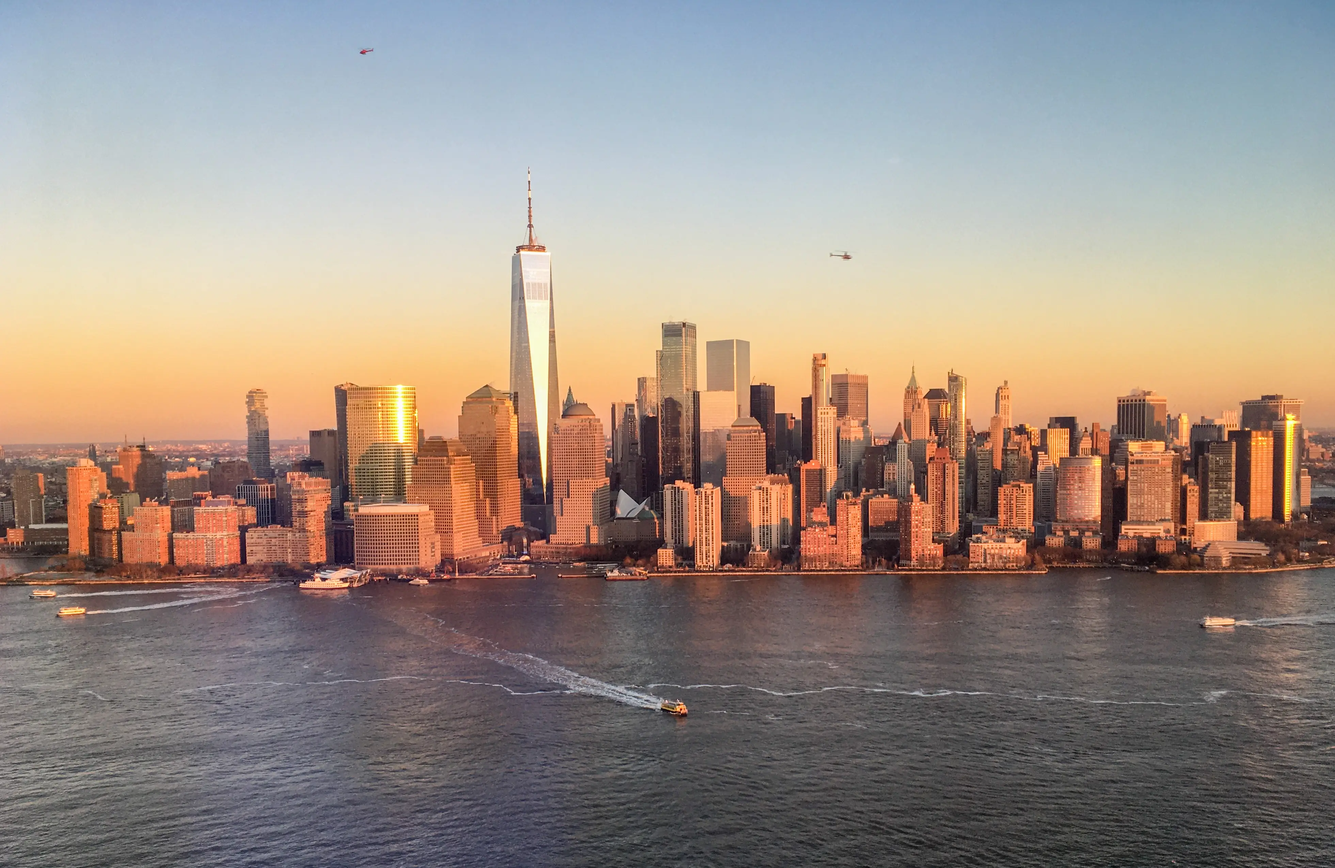
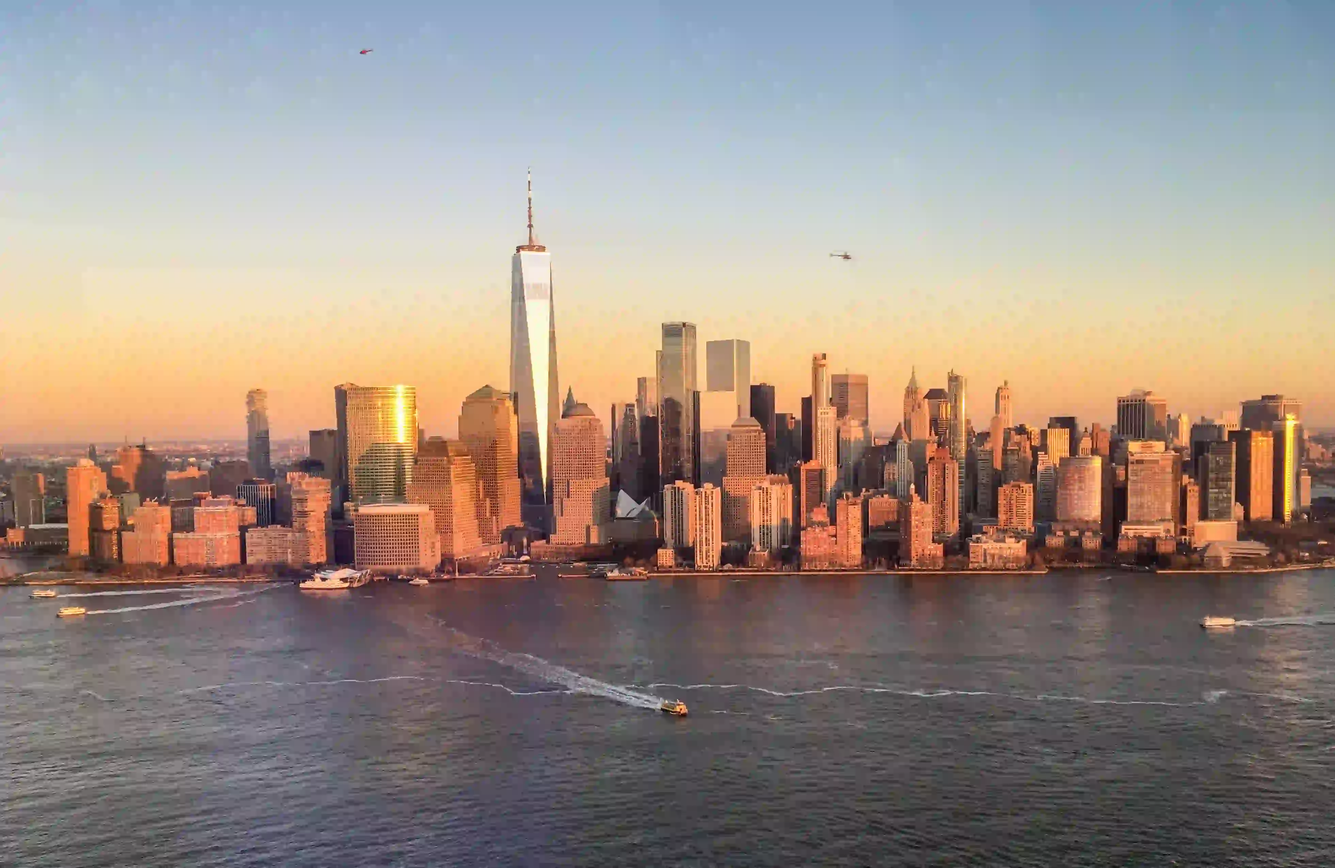
added changes

diff --git a/src/components/Header.tsx b/src/components/Header.tsx
@@ -456,21 +456,19 @@ export default function Header({ lang }: HeaderProps) {
                 >
                   <Link
                     href={item.href}
-                    className={`uppercase tracking-[2px] text-[13px] inline-flex items-center gap-1 transition-colors ${
-                      isNavActive
+                    className={`uppercase tracking-[2px] text-[13px] inline-flex items-center gap-1 transition-colors ${isNavActive
                         ? "text-[#C5A059]"
                         : shouldBeActive
                           ? "text-black hover:text-[#C5A059]"
                           : "text-white hover:text-[#C5A059]"
-                    }`}
+                      }`}
                   >
                     {item.label}
                     {item.hasDropdown && (
                       <ChevronDown
                         size={14}
-                        className={`transition-transform duration-300 ${
-                          isHovered ? "rotate-180 text-[#C5A059]" : ""
-                        }`}
+                        className={`transition-transform duration-300 ${isHovered ? "rotate-180 text-[#C5A059]" : ""
+                          }`}
                       />
                     )}
                   </Link>
@@ -504,11 +502,10 @@ export default function Header({ lang }: HeaderProps) {
                                       <li key={sIdx}>
                                         <Link
                                           href={svc.href}
-                                          className={`text-[12px] font-bold uppercase tracking-wider transition-all duration-200 inline-block ${
-                                            isSubActive
+                                          className={`text-[12px] font-bold uppercase tracking-wider transition-all duration-200 inline-block ${isSubActive
                                               ? "text-[#C5A059]"
                                               : "text-neutral-600 hover:text-black hover:translate-x-1"
-                                          }`}
+                                            }`}
                                         >
                                           {svc.name}
                                         </Link>
@@ -563,11 +560,10 @@ export default function Header({ lang }: HeaderProps) {
                                 <li key={subIdx}>
                                   <Link
                                     href={sub.href}
-                                    className={`text-[12px] font-bold uppercase tracking-wider transition-all duration-200 block py-1 ${
-                                      isChildActive
+                                    className={`text-[12px] font-bold uppercase tracking-wider transition-all duration-200 block py-1 ${isChildActive
                                         ? "text-[#C5A059]"
                                         : "text-neutral-600 hover:text-black hover:translate-x-1"
-                                    }`}
+                                      }`}
                                   >
                                     {sub.name}
                                   </Link>
@@ -589,13 +585,12 @@ export default function Header({ lang }: HeaderProps) {
             <div className="hidden md:flex items-center gap-2 mr-4 border-r border-black/10 pr-4 font-ddin">
               <button
                 onClick={() => toggleLanguage("en")}
-                className={`text-[12px] font-bold transition-colors ${
-                  lang === "en"
+                className={`text-[12px] font-bold transition-colors ${lang === "en"
                     ? "text-[#C5A059]"
                     : shouldBeActive
                       ? "text-black/40"
                       : "text-white/40"
-                }`}
+                  }`}
               >
                 EN
               </button>
@@ -606,13 +601,12 @@ export default function Header({ lang }: HeaderProps) {
               </span>
               <button
                 onClick={() => toggleLanguage("es")}
-                className={`text-[12px] font-bold transition-colors ${
-                  lang === "es"
+                className={`text-[12px] font-bold transition-colors ${lang === "es"
                     ? "text-[#C5A059]"
                     : shouldBeActive
                       ? "text-black/40"
                       : "text-white/40"
-                }`}
+                  }`}
               >
                 ES
               </button>
@@ -623,13 +617,12 @@ export default function Header({ lang }: HeaderProps) {
               </span>
               <button
                 onClick={() => toggleLanguage("zh")}
-                className={`text-[12px] font-bold transition-colors ${
-                  lang === "zh"
+                className={`text-[12px] font-bold transition-colors ${lang === "zh"
                     ? "text-[#C5A059]"
                     : shouldBeActive
                       ? "text-black/40"
                       : "text-white/40"
-                }`}
+                  }`}
               >
                 中文
               </button>
@@ -654,6 +647,19 @@ export default function Header({ lang }: HeaderProps) {
 
             <button
               onClick={() => setIsOpen(!isOpen)}
+              aria-label={
+                isOpen
+                  ? lang === "zh"
+                    ? "关闭导航菜单"
+                    : lang === "es"
+                      ? "Cerrar menú de navegación"
+                      : "Close navigation menu"
+                  : lang === "zh"
+                    ? "打开导航菜单"
+                    : lang === "es"
+                      ? "Abrir menú de navegación"
+                      : "Open navigation menu"
+              }
               className={`lg:hidden p-2 z-[70] ${shouldBeActive ? "text-black" : "text-white"}`}
             >
               {isOpen ? <X size={24} /> : <Menu size={24} />}
@@ -697,11 +703,10 @@ export default function Header({ lang }: HeaderProps) {
               <div>
                 <button
                   onClick={() => setMobileServicesOpen(!mobileServicesOpen)}
-                  className={`w-full flex items-center justify-between text-3xl font-bold uppercase tracking-tight ${
-                    pathname.includes("/services") || pathname.includes("/pain-free-dentistry")
+                  className={`w-full flex items-center justify-between text-3xl font-bold uppercase tracking-tight ${pathname.includes("/services") || pathname.includes("/pain-free-dentistry")
                       ? "text-[#C5A059]"
                       : "text-black"
-                  }`}
+                    }`}
                 >
                   <span>
                     {lang === "zh"
@@ -712,9 +717,8 @@ export default function Header({ lang }: HeaderProps) {
                   </span>
                   <ChevronDown
                     size={28}
-                    className={`transition-transform duration-300 ${
-                      mobileServicesOpen ? "rotate-180 text-[#C5A059]" : ""
-                    }`}
+                    className={`transition-transform duration-300 ${mobileServicesOpen ? "rotate-180 text-[#C5A059]" : ""
+                      }`}
                   />
                 </button>
 
@@ -738,11 +742,10 @@ export default function Header({ lang }: HeaderProps) {
                                 <Link
                                   href={svc.href}
                                   onClick={() => setIsOpen(false)}
-                                  className={`text-sm font-bold uppercase ${
-                                    isSubActive
+                                  className={`text-sm font-bold uppercase ${isSubActive
                                       ? "text-[#C5A059]"
                                       : "text-neutral-600 hover:text-black"
-                                  }`}
+                                    }`}
                                 >
                                   {svc.name}
                                 </Link>
@@ -760,9 +763,8 @@ export default function Header({ lang }: HeaderProps) {
               <Link
                 href={`/${lang}/cases`}
                 onClick={() => setIsOpen(false)}
-                className={`text-3xl font-bold uppercase tracking-tight ${
-                  pathname.includes("/cases") ? "text-[#C5A059]" : "text-black"
-                }`}
+                className={`text-3xl font-bold uppercase tracking-tight ${pathname.includes("/cases") ? "text-[#C5A059]" : "text-black"
+                  }`}
               >
                 {lang === "zh"
                   ? "案例展示"
@@ -775,16 +777,15 @@ export default function Header({ lang }: HeaderProps) {
               <div>
                 <button
                   onClick={() => setMobileAboutOpen(!mobileAboutOpen)}
-                  className={`w-full flex items-center justify-between text-3xl font-bold uppercase tracking-tight ${
-                    pathname.includes("/about") ||
-                    pathname.includes("/team") ||
-                    pathname.includes("/your-first-visit") ||
-                    pathname.includes("/insurance") ||
-                    pathname.includes("/leading-edge-technology") ||
-                    pathname.includes("/best-dentist-in-nyc")
+                  className={`w-full flex items-center justify-between text-3xl font-bold uppercase tracking-tight ${pathname.includes("/about") ||
+                      pathname.includes("/team") ||
+                      pathname.includes("/your-first-visit") ||
+                      pathname.includes("/insurance") ||
+                      pathname.includes("/leading-edge-technology") ||
+                      pathname.includes("/best-dentist-in-nyc")
                       ? "text-[#C5A059]"
                       : "text-black"
-                  }`}
+                    }`}
                 >
                   <span>
                     {lang === "zh"
@@ -795,9 +796,8 @@ export default function Header({ lang }: HeaderProps) {
                   </span>
                   <ChevronDown
                     size={28}
-                    className={`transition-transform duration-300 ${
-                      mobileAboutOpen ? "rotate-180 text-[#C5A059]" : ""
-                    }`}
+                    className={`transition-transform duration-300 ${mobileAboutOpen ? "rotate-180 text-[#C5A059]" : ""
+                      }`}
                   />
                 </button>
 
@@ -815,11 +815,10 @@ export default function Header({ lang }: HeaderProps) {
                           <Link
                             href={sub.href}
                             onClick={() => setIsOpen(false)}
-                            className={`text-sm font-bold uppercase ${
-                              isChildActive
+                            className={`text-sm font-bold uppercase ${isChildActive
                                 ? "text-[#C5A059]"
                                 : "text-neutral-600 hover:text-black"
-                            }`}
+                              }`}
                           >
                             {sub.name}
                           </Link>
@@ -834,9 +833,8 @@ export default function Header({ lang }: HeaderProps) {
               <Link
                 href={`/${lang}/team`}
                 onClick={() => setIsOpen(false)}
-                className={`text-3xl font-bold uppercase tracking-tight ${
-                  pathname.includes("/team") ? "text-[#C5A059]" : "text-black"
-                }`}
+                className={`text-3xl font-bold uppercase tracking-tight ${pathname.includes("/team") ? "text-[#C5A059]" : "text-black"
+                  }`}
               >
                 {lang === "zh" ? "医疗团队" : lang === "es" ? "Equipo" : "Team"}
               </Link>

diff --git a/next.config.ts b/next.config.ts
@@ -10,8 +10,22 @@ const nextConfig: NextConfig = {
       { protocol: "https", hostname: "scontent.cdninstagram.com" },
     ],
   },
+
   async redirects() {
     return await getRedirects();
+  },
+  async headers() {
+    return [
+      {
+        source: "/llms.txt",
+        headers: [
+          {
+            key: "Content-Type",
+            value: "text/markdown; charset=utf-8",
+          },
+        ],
+      },
+    ];
   },
 };
 
